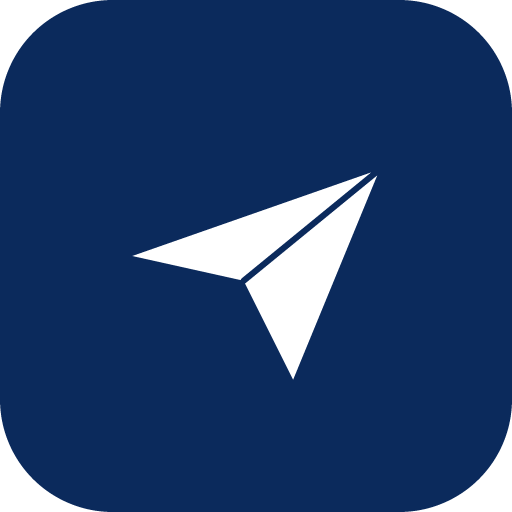
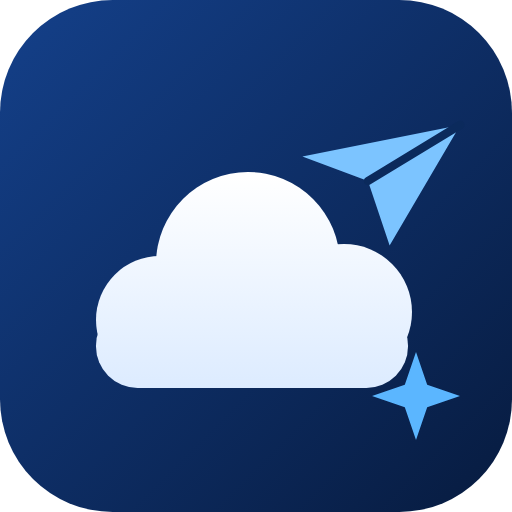
앱 아이콘을 구름+종이비행기+반짝임 디자인으로 교체
Claude-Session: https://claude.ai/code/session_01LARvZPaMhbaj5eEPctwcqn

diff --git a/src/mobile/mobile.ts b/src/mobile/mobile.ts
@@ -102,7 +102,7 @@ type Trip = Database['public']['Tables']['trips']['Row'];
 /* ══════════════ 아이콘 (얇은 선 — 이모지 금지, Claude.md 5-3) ══════════════ */
 
 const IC = {
-  logo: '<svg viewBox="0 0 24 24" fill="none" stroke="currentColor" stroke-width="1.6" stroke-linecap="round" stroke-linejoin="round"><path d="M2 12l20-7-7 20-3-8-8-3z"/></svg>',
+  logo: '<svg viewBox="0 0 24 24" fill="none" stroke="currentColor" stroke-width="1.6" stroke-linecap="round" stroke-linejoin="round"><path d="M7 19a4.5 4.5 0 0 1-.4-8.98A6 6 0 0 1 18 9.5a4.7 4.7 0 0 1 .5 9.5z"/><path d="M15 3l5 1.6-3.6 3.8z" fill="currentColor" stroke-width="1"/></svg>',
   bell: '<svg viewBox="0 0 24 24" fill="none" stroke="currentColor" stroke-width="1.7" stroke-linecap="round" stroke-linejoin="round"><path d="M18 8a6 6 0 1 0-12 0c0 6-3 7-3 7h18s-3-1-3-7"/><path d="M13.7 21a2 2 0 0 1-3.4 0"/></svg>',
   menu: '<svg viewBox="0 0 24 24" fill="none" stroke="currentColor" stroke-width="1.8" stroke-linecap="round"><path d="M4 7h16M4 12h16M4 17h16"/></svg>',
   chevDown: '<svg viewBox="0 0 24 24" fill="none" stroke="currentColor" stroke-width="2.2" stroke-linecap="round" stroke-linejoin="round"><path d="M6 9l6 6 6-6"/></svg>',
